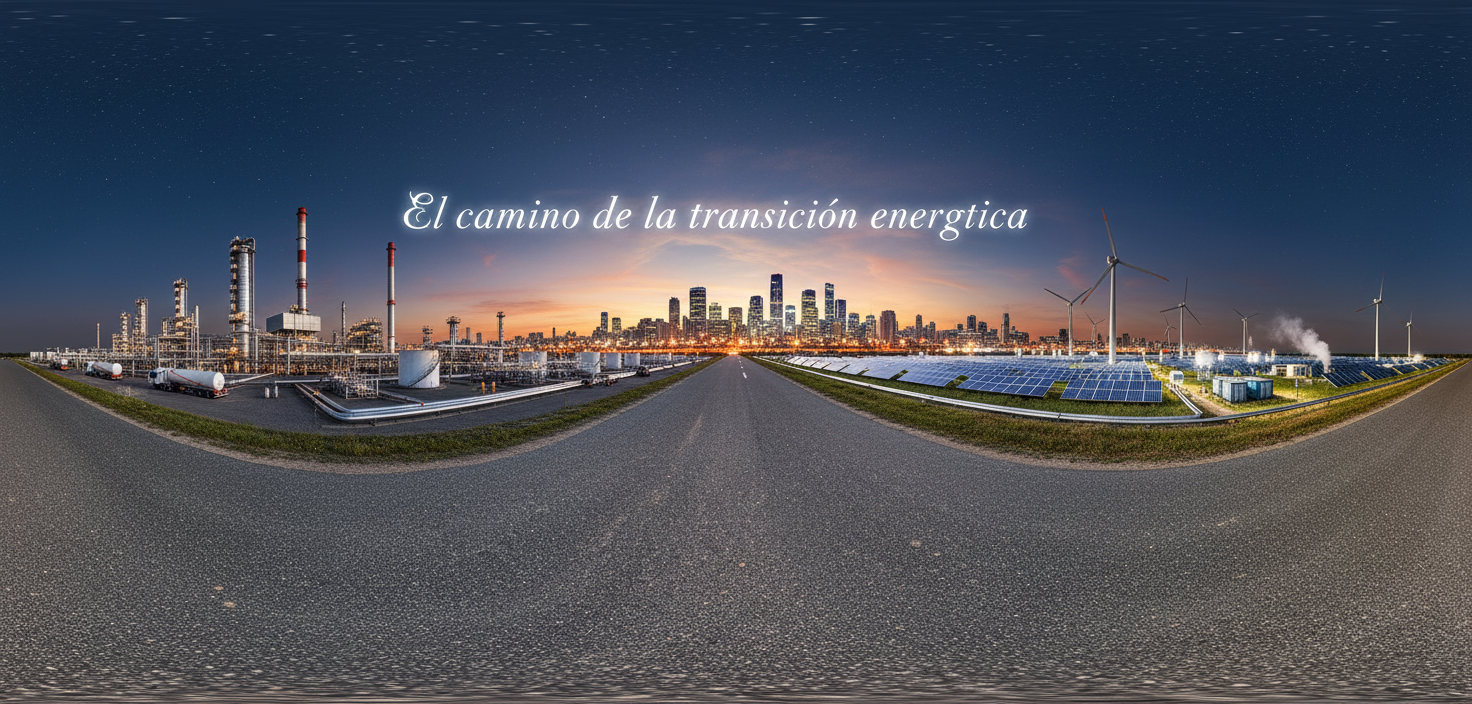
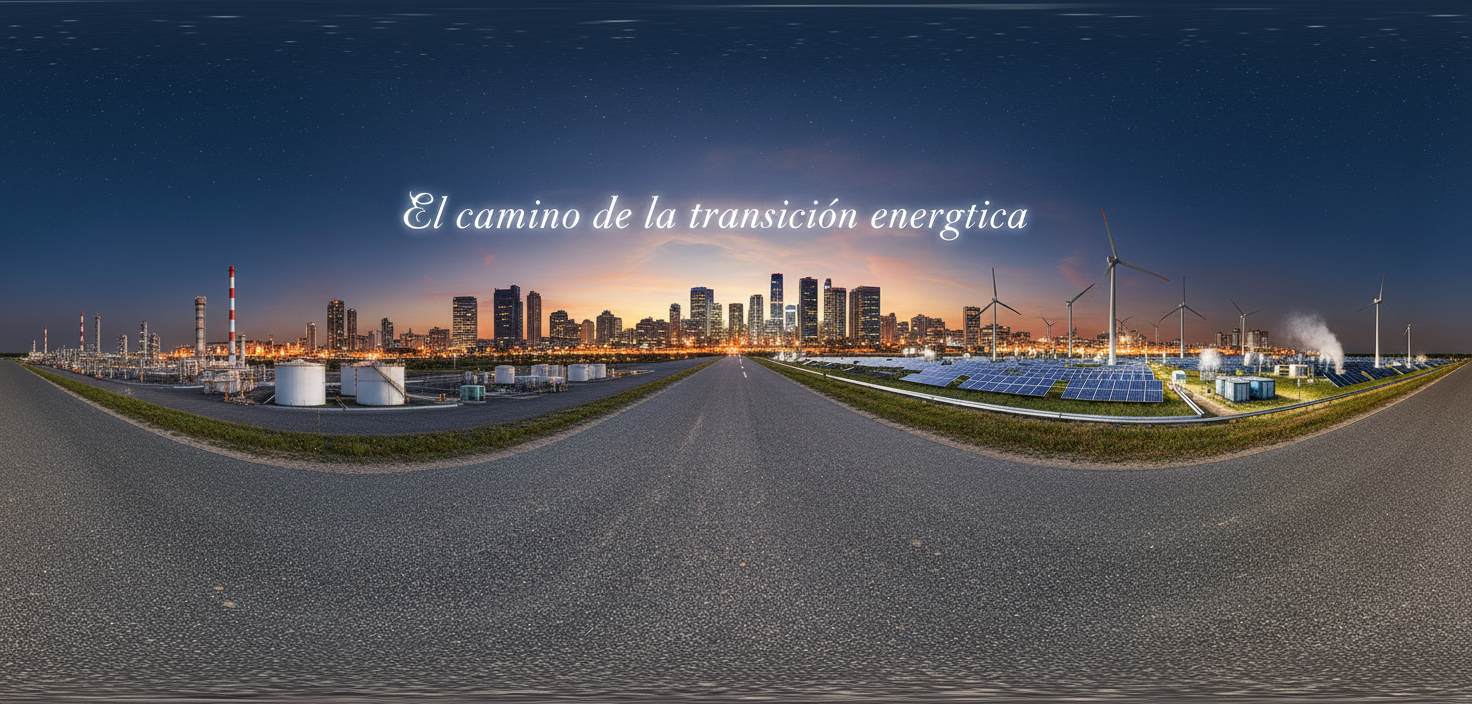
ordenamiento de las carpetas de imagenes

diff --git a/apps/clientevanilla/index.html b/apps/clientevanilla/index.html
@@ -29,7 +29,7 @@
         <!-- Solar videos for floating screen (Scene 1 only) -->
         <video
           id="solar-1-video"
-          src="videos/escena 1/solar_1.MP4"
+          src="videos/escena%201/solar_1.MP4"
           preload="metadata"
           loop="false"
           crossorigin="anonymous"
@@ -37,7 +37,7 @@
         ></video>
         <video
           id="solar-2-video"
-          src="videos/escena 1/solar_2.MP4"
+          src="videos/escena%201/solar_2.MP4"
           preload="metadata"
           loop="false"
           crossorigin="anonymous"
@@ -45,7 +45,7 @@
         ></video>
         <video
           id="solar-3-video"
-          src="videos/escena 1/solar_3.MP4"
+          src="videos/escena%201/solar_3.MP4"
           preload="metadata"
           loop="false"
           crossorigin="anonymous"
@@ -53,19 +53,19 @@
         ></video>
 
         <!-- Petroleo images for floating screen (Scene 2 only) -->
-        <img id="petroleo-1-image" src="images/escena 2/petroleo_1.jpg" />
-        <img id="petroleo-2-image" src="images/escena 2/petroleo_2.jpg" />
-        <img id="petroleo-3-image" src="images/escena 2/petroleo_3.jpg" />
+        <img id="petroleo-1-image" src="images/escena%202/petroleo_1.jpg" />
+        <img id="petroleo-2-image" src="images/escena%202/petroleo_2.jpg" />
+        <img id="petroleo-3-image" src="images/escena%202/petroleo_3.jpg" />
 
         <!-- Plataforma images for floating screen (Scene 3 only) -->
-        <img id="plataforma-1-image" src="images/escena 3/plataforma_1.jpg" />
-        <img id="plataforma-2-image" src="images/escena 3/plataforma_2.jpg" />
-        <img id="plataforma-3-image" src="images/escena 3/plataforma_3.jpg" />
+        <img id="plataforma-1-image" src="images/escena%203/plataforma_1.jpg" />
+        <img id="plataforma-2-image" src="images/escena%203/plataforma_2.jpg" />
+        <img id="plataforma-3-image" src="images/escena%203/plataforma_3.jpg" />
 
         <!-- CPF images for floating screen (Scene 3 only) -->
-        <img id="cpf-cupiagua-image" src="images/escena 3/cpf_cupiagua.jpg" />
-        <img id="cpf_cusiana-image" src="images/escena 3/cpf_cusiana.jpg" />
-        <img id="cpf_florena-image" src="images/escena 3/cpf_florena.jpg" />
+        <img id="cpf-cupiagua-image" src="images/escena%203/cpf_cupiagua.jpg" />
+        <img id="cpf_cusiana-image" src="images/escena%203/cpf_cusiana.jpg" />
+        <img id="cpf_florena-image" src="images/escena%203/cpf_florena.jpg" />
       </a-assets>
 
       <!-- Scene loading overlay -->
@@ -494,7 +494,8 @@
 
               if (audioElement && soundComponent) {
                 // Try to play and immediately pause to unlock audio context
-                audioElement.play()
+                audioElement
+                  .play()
                   .then(() => {
                     audioElement.pause();
                     audioElement.currentTime = 0;
@@ -669,7 +670,9 @@
 
             // Only attempt to play if audio is enabled
             if (!audioEnabled) {
-              console.log("🔇 Audio not enabled yet, will play when user interacts");
+              console.log(
+                "🔇 Audio not enabled yet, will play when user interacts"
+              );
               return;
             }
 
@@ -685,7 +688,12 @@
                   setTimeout(() => {
                     // Start playing the new audio
                     audioComponent.playSound();
-                    console.log("🔊 Audio started for scene:", sceneConfig.id, "- Audio file:", sceneConfig.assets.audio);
+                    console.log(
+                      "🔊 Audio started for scene:",
+                      sceneConfig.id,
+                      "- Audio file:",
+                      sceneConfig.assets.audio
+                    );
                   }, 200);
                 } else {
                   console.warn("⚠ Audio component not found");
@@ -697,12 +705,15 @@
                   const audioElement = document.querySelector("#current-audio");
                   if (audioElement) {
                     audioElement.currentTime = 0;
-                    audioElement.play().catch(playError => {
+                    audioElement.play().catch((playError) => {
                       console.warn("⚠ Direct audio play failed:", playError);
                     });
                   }
                 } catch (fallbackError) {
-                  console.error("❌ Fallback audio play failed:", fallbackError);
+                  console.error(
+                    "❌ Fallback audio play failed:",
+                    fallbackError
+                  );
                 }
               }
             }, 100);
@@ -980,9 +991,15 @@
           };
 
           // Listen for various user interactions
-          document.addEventListener('click', enableAudioOnInteraction, { once: true });
-          document.addEventListener('touchstart', enableAudioOnInteraction, { once: true });
-          document.addEventListener('keydown', enableAudioOnInteraction, { once: true });
+          document.addEventListener("click", enableAudioOnInteraction, {
+            once: true,
+          });
+          document.addEventListener("touchstart", enableAudioOnInteraction, {
+            once: true,
+          });
+          document.addEventListener("keydown", enableAudioOnInteraction, {
+            once: true,
+          });
 
           function sendStateUpdate() {
             // Send state update to server

diff --git a/apps/clientevanilla/server.js b/apps/clientevanilla/server.js
@@ -1,68 +1,70 @@
-const https = require('https');
-const http = require('http');
-const fs = require('fs');
-const path = require('path');
+const https = require("https");
+const http = require("http");
+const fs = require("fs");
+const path = require("path");
 
 // SSL configuration - usando certificados SSL personalizados como en vr-a-frame-example
 const options = {
-  key: fs.readFileSync(path.join(__dirname, 'key.pem')),
-  cert: fs.readFileSync(path.join(__dirname, 'cert.pem'))
+  key: fs.readFileSync(path.join(__dirname, "key.pem")),
+  cert: fs.readFileSync(path.join(__dirname, "cert.pem")),
 };
 
 // MIME types for common files
 const mimeTypes = {
-  '.html': 'text/html',
-  '.js': 'text/javascript',
-  '.css': 'text/css',
-  '.json': 'application/json',
-  '.png': 'image/png',
-  '.jpg': 'image/jpeg',
-  '.jpeg': 'image/jpeg',
-  '.gif': 'image/gif',
-  '.svg': 'image/svg+xml',
-  '.wav': 'audio/wav',
-  '.mp3': 'audio/mpeg',
-  '.mp4': 'video/mp4',
-  '.woff': 'application/font-woff',
-  '.ttf': 'application/font-ttf',
-  '.eot': 'application/vnd.ms-fontobject',
-  '.otf': 'application/font-otf',
-  '.wasm': 'application/wasm',
-  '.gltf': 'model/gltf+json',
-  '.bin': 'application/octet-stream'
+  ".html": "text/html",
+  ".js": "text/javascript",
+  ".css": "text/css",
+  ".json": "application/json",
+  ".png": "image/png",
+  ".jpg": "image/jpeg",
+  ".jpeg": "image/jpeg",
+  ".gif": "image/gif",
+  ".svg": "image/svg+xml",
+  ".wav": "audio/wav",
+  ".mp3": "audio/mpeg",
+  ".mp4": "video/mp4",
+  ".woff": "application/font-woff",
+  ".ttf": "application/font-ttf",
+  ".eot": "application/vnd.ms-fontobject",
+  ".otf": "application/font-otf",
+  ".wasm": "application/wasm",
+  ".gltf": "model/gltf+json",
+  ".bin": "application/octet-stream",
 };
 
 function serveFile(req, res) {
-  let filePath = '.' + req.url;
+  // Decode URL to handle encoded spaces and special characters
+  let filePath = "." + decodeURIComponent(req.url);
 
   // Default to index.html
-  if (filePath === './') {
-    filePath = './index.html';
+  if (filePath === "./") {
+    filePath = "./index.html";
   }
 
   const extname = String(path.extname(filePath)).toLowerCase();
-  const mimeType = mimeTypes[extname] || 'application/octet-stream';
+  const mimeType = mimeTypes[extname] || "application/octet-stream";
 
   fs.readFile(filePath, (error, content) => {
     if (error) {
-      if (error.code === 'ENOENT') {
+      if (error.code === "ENOENT") {
         // File not found
-        res.writeHead(404, { 'Content-Type': 'text/html' });
-        res.end('<h1>404 - File Not Found</h1>', 'utf-8');
+        res.writeHead(404, { "Content-Type": "text/html" });
+        res.end("<h1>404 - File Not Found</h1>", "utf-8");
       } else {
         // Server error
         res.writeHead(500);
-        res.end(`Server Error: ${error.code}`, 'utf-8');
+        res.end(`Server Error: ${error.code}`, "utf-8");
       }
     } else {
       // Success
       res.writeHead(200, {
-        'Content-Type': mimeType,
-        'Access-Control-Allow-Origin': '*',
-        'Access-Control-Allow-Methods': 'GET, POST, PUT, DELETE, OPTIONS',
-        'Access-Control-Allow-Headers': 'Origin, X-Requested-With, Content-Type, Accept'
+        "Content-Type": mimeType,
+        "Access-Control-Allow-Origin": "*",
+        "Access-Control-Allow-Methods": "GET, POST, PUT, DELETE, OPTIONS",
+        "Access-Control-Allow-Headers":
+          "Origin, X-Requested-With, Content-Type, Accept",
       });
-      res.end(content, 'utf-8');
+      res.end(content, "utf-8");
     }
   });
 }
@@ -79,7 +81,7 @@ const httpServer = http.createServer((req, res) => {
 // Start servers - usando puerto 8444 para evitar conflicto con vr-a-frame-example
 const httpsPort = 8444;
 const httpPort = 8082; // Changed from 8081 to avoid conflict with WebSocket server
-const host = '0.0.0.0';
+const host = "0.0.0.0";
 
 httpsServer.listen(httpsPort, host, () => {
   console.log(`🔒 HTTPS Server running on ${host}:${httpsPort}`);
@@ -88,12 +90,14 @@ httpsServer.listen(httpsPort, host, () => {
 });
 
 httpServer.listen(httpPort, host, () => {
-  console.log(`🔄 HTTP Server redirecting from http://${host}:${httpPort}/ to HTTPS`);
+  console.log(
+    `🔄 HTTP Server redirecting from http://${host}:${httpPort}/ to HTTPS`
+  );
 });
 
 // Graceful shutdown
-process.on('SIGINT', () => {
-  console.log('\n🛑 Shutting down servers...');
+process.on("SIGINT", () => {
+  console.log("\n🛑 Shutting down servers...");
   httpsServer.close();
   httpServer.close();
   process.exit(0);
